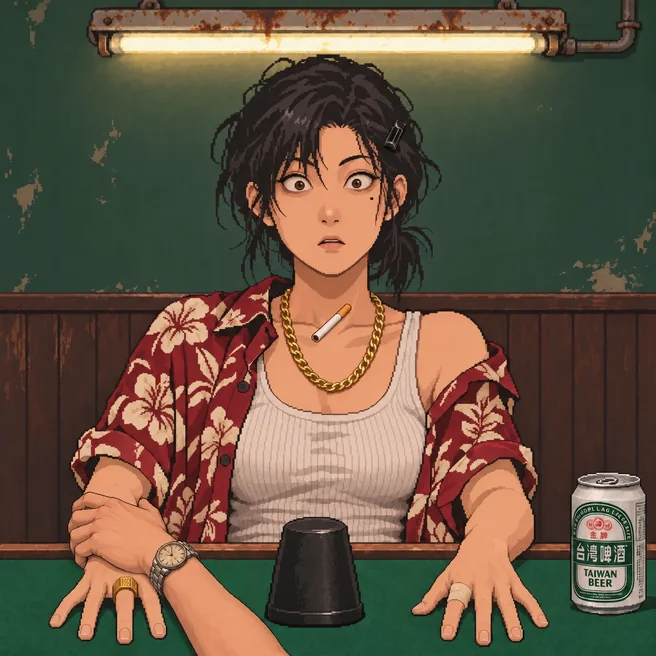
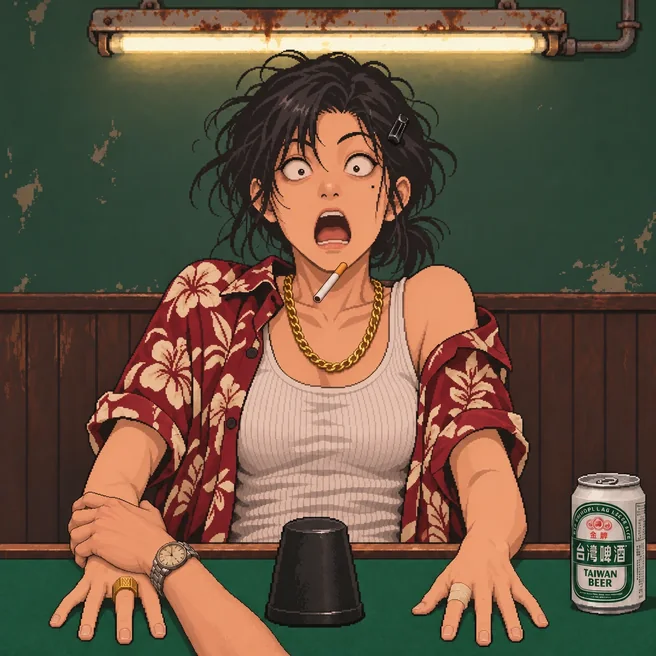
被抓改成驚訝再憤怒加屈辱、抓千彈窗改寫抓到沒、籌碼跟彈窗同一拍、修單個籌碼破圖

diff --git a/index.html b/index.html
@@ -155,7 +155,7 @@ button:focus-visible { outline: 2px solid var(--brass); outline-offset: 2px; }
   const IMG = "img/";
   const FRAMES = ["base", "expr-blink", "expr-tease", "expr-smug", "expr-suspicious", "expr-caught", "expr-nostalgia", "expr-angry",
     "tell-cup-a", "tell-cup-b", "tell-drink-a", "tell-drink-b", "tell-hair-a", "tell-hair-b", "tell-chat-a", "tell-chat-b", "tell-lean-a", "tell-lean-b",
-    "shake-a", "shake-b", "cup-open", "hand-grab", "hand-grab-caught", "hand-swap", "hand-swap-caught"];
+    "shake-a", "shake-b", "cup-open", "hand-grab", "hand-grab-caught", "hand-grab-shamed", "hand-swap", "hand-swap-caught"];
   const PROPS = ["die-1", "die-2", "die-3", "die-4", "die-5", "die-6", "chip-top-black", "chip-side-black", "chip-bottom-black", "chip-top-red", "chip-side-red", "chip-bottom-red"];
   const W = 656, H = 656, LAMP = [121, 37, 534, 51];
 
@@ -339,12 +339,18 @@ button:focus-visible { outline: 2px solid var(--brass); outline-offset: 2px; }
     const top = img["chip-top-" + color], side = img["chip-side-" + color], bot = img["chip-bottom-" + color];
     if (!top || n <= 0) return;
     const w = top.width * scale; let y = bottomY; const x = cx - w / 2;
-    if (n >= 2) { y -= bot.height * scale; ctx.drawImage(bot, x, y, w, bot.height * scale); }
+    if (n === 1) {  // 單顆：頂面往下疊進底邊一片側片的高度，再把有弧度的底邊蓋上去，不然底下會被切平
+      const yb = bottomY - bot.height * scale;
+      ctx.drawImage(top, x, yb + side.height * scale - top.height * scale, w, top.height * scale);
+      ctx.drawImage(bot, x, yb, w, bot.height * scale); return;
+    }
+    y -= bot.height * scale; ctx.drawImage(bot, x, y, w, bot.height * scale);
     for (let i = 0; i < Math.max(0, n - 2); i++) { y -= side.height * scale; ctx.drawImage(side, x, y, w, side.height * scale); }
     y -= top.height * scale; ctx.drawImage(top, x, y, w, top.height * scale);
   }
   function stackHeight(color, n, scale) {
     const top = img["chip-top-" + color], side = img["chip-side-" + color], bot = img["chip-bottom-" + color];
+    if (n === 1) return scale * (top.height + bot.height - side.height);
     return scale * (top.height + (n >= 2 ? bot.height : 0) + Math.max(0, n - 2) * side.height);
   }
   function loop(now) { drawScene(now); requestAnimationFrame(loop); }
@@ -467,7 +473,7 @@ button:focus-visible { outline: 2px solid var(--brass); outline-offset: 2px; }
       setTimeout(() => { if (tutAlive(tok)) one(); }, 400); tutLoop(tok, 2000, one);
     } else if (sc === "grab") {
       D.hl.grab = true;
-      const once = async () => { S.hold = null; await play([["hand-grab", 500]]); if (!tutAlive(tok)) return; S.hold = "hand-grab-caught"; setTimeout(() => { if (tutAlive(tok)) S.hold = null; }, 1500); };
+      const once = async () => { S.hold = null; await play([["hand-grab", 500]]); if (!tutAlive(tok)) return; S.hold = "hand-grab-caught"; shameLater(); setTimeout(() => { if (tutAlive(tok)) S.hold = null; }, 2000); };
       setTimeout(() => { if (tutAlive(tok)) once(); }, 500); tutLoop(tok, 3800, once);
     } else if (sc === "swap" || sc === "swapZones" || sc === "swapHard") {
       S.hold = "hand-swap"; D.hl.legend = sc === "swapZones";
@@ -561,7 +567,7 @@ button:focus-visible { outline: 2px solid var(--brass); outline-offset: 2px; }
     G.result = null; G.rclass = ""; G.note = ""; G.flipped = []; G.flipAt = 0; G.cheatFlipAt = 0; G.noticed = false; G.act = ""; G.shownTells = [];
     G.amt = Math.min(G.amt, maxAmt());
     G.lines = [{ c: "line", t: attitude() }];
-    G.diceState = "hidden"; S.hold = null; S.stake = 0;
+    G.diceState = "hidden"; S.hold = null; S.stake = 0; S.purseHold = null;
     G.phase = "shake"; render();
     const shakes = []; for (let i = 0; i < 8; i++) shakes.push([i % 2 ? "shake-b" : "shake-a", 100]);
     if (Math.random() < 0.5) sfx("vIn", 0.5);
@@ -675,11 +681,14 @@ button:focus-visible { outline: 2px solid var(--brass); outline-offset: 2px; }
     G.susp = clamp(G.susp - 0.03, 0, 1);
     G.log.push({ n: G.round, bet: `${sideName[G.bet.side]} ${G.bet.amt}`, tells: G.shownTells.slice(), act: G.act, res: G.result, cheated: G.cheated, noticed: G.noticed || (G.act === "抓千" && G.cheated) });
     G.loseStreak = (G.result || "").includes("−") ? G.loseStreak + 1 : 0;
-    S.stake = 0;
     if (G.you <= 0 || G.him <= 0) { gamesPlayed += 1; saveTell(); }
     G.phase = (G.you <= 0 || G.him <= 0) ? "endwait" : "result";
-    render();
-    showResultPop();
+    // 籌碼增減（右邊兩疊、桌上押的那疊）跟彈窗同一拍
+    const settle = () => { S.purseHold = null; S.stake = 0; render(); showResultPop(); };
+    if (G.act === "抓千" && !fast()) {  // 抓千那把：先讓她的反應演完再一起結算，免得彈窗蓋住臉
+      render();
+      const n = G.round; setTimeout(() => { if (G.round === n && (G.phase === "result" || G.phase === "endwait")) settle(); }, 1600);
+    } else settle();
   }
   // 每把結束：正中間跳出「點數總和、大小、輸贏」，約 2 秒後自己淡掉。不擋點擊，下面的結果卡照留
   function showResultPop() {
@@ -688,8 +697,9 @@ button:focus-visible { outline: 2px solid var(--brass); outline-offset: 2px; }
     const shown = G.diceState === "shown"; const sd = sideOf(G.dice);
     const top = shown ? `${sum(G.dice)} 點　${sd === "triple" ? "豹子" : sideName[sd]}` : "沒開盅";
     const r = G.result || "";
-    const res = r.startsWith("+") ? `你贏了 ${r}` : r.startsWith("−") ? `你輸了 ${r}` : r;
-    const pop = el("div", { class: "pop " + G.rclass, role: "status" }, el("b", {}, top), el("span", {}, res));
+    let head = top, res = r.startsWith("+") ? `你贏了 ${r}` : r.startsWith("−") ? `你輸了 ${r}` : r;
+    if (G.act === "抓千") { const m = r.match(/^(抓到了|抓錯了)\s*(.*)$/); if (m) { head = m[1]; res = m[2]; } }  // 抓千那把不講點數，只講抓到沒
+    const pop = el("div", { class: "pop " + G.rclass, role: "status" }, el("b", {}, head), el("span", {}, res));
     const sr = sceneWrap && sceneWrap.getBoundingClientRect();  // 放在桌面畫面正中，不擋到下方骰子
     if (sr && sr.height) pop.style.top = (sr.top + sr.height / 2) + "px";
     document.body.append(pop);
@@ -726,15 +736,17 @@ button:focus-visible { outline: 2px solid var(--brass); outline-offset: 2px; }
     afterRound();
   }
 
+  // 被抓：先驚訝 0.6 秒，再換成憤怒加屈辱，停到下一把
+  function shameLater() { setTimeout(() => { if (S.hold === "hand-grab-caught") S.hold = "hand-grab-shamed"; }, fast() ? 0 : 600); }
   async function grab() {
     if (G.phase !== "open") return;
     stopTells();
-    G.act = "抓千"; G.phase = "reveal"; render();
+    G.act = "抓千"; G.phase = "reveal"; S.purseHold = { you: G.you, him: G.him }; render();  // 籌碼先不動，跟彈窗同一拍才變
     const a = G.bet.amt;
     synth("thud");
     if (G.cheated) {
       await play([["hand-grab", 500]]);
-      S.hold = "hand-grab-caught"; G.diceState = "shown"; render(); sfx("grab", 0.7); sfx("vCaught", 0.8);
+      S.hold = "hand-grab-caught"; shameLater(); G.diceState = "shown"; render(); sfx("grab", 0.7); sfx("vCaught", 0.8);
       const gain = Math.min(G.him, a * 3);
       G.you += gain; G.him -= gain;
       G.result = `抓到了 +${gain}`; G.rclass = "win";
@@ -862,13 +874,14 @@ button:focus-visible { outline: 2px solid var(--brass); outline-offset: 2px; }
     if (n > 0) drawStack(c, color, Math.min(n, PURSE_CAP), 20, h - 1, scale);
   }
   function renderRow() {
-    purse(purseL, "black", G.him); purse(purseR, "red", G.you);
+    const pv = S.purseHold || G;
+    purse(purseL, "black", pv.him); purse(purseR, "red", pv.you);
     const hlPurse = G.phase === "intro" && G.demo && G.demo.hl.purse;
     // 三欄：她的籌碼｜場景（縮小）｜你的籌碼；骰子列、對話框在下面整排
     return el("div", { class: "row" },
-      el("div", { class: "purse" + (hlPurse ? " hl" : "") }, el("span", { class: "who" }, "木子"), purseL, el("span", { class: "n" }, String(G.him))),
+      el("div", { class: "purse" + (hlPurse ? " hl" : "") }, el("span", { class: "who" }, "木子"), purseL, el("span", { class: "n" }, String(pv.him))),
       sceneWrap,
-      el("div", { class: "purse me" + (hlPurse ? " hl" : "") }, el("span", { class: "who" }, "你"), purseR, el("span", { class: "n" }, String(G.you))));
+      el("div", { class: "purse me" + (hlPurse ? " hl" : "") }, el("span", { class: "who" }, "你"), purseR, el("span", { class: "n" }, String(pv.you))));
   }
   function renderDice() {
     if (G.phase === "intro" && G.demo && G.demo.dice) return renderDemoDice();
